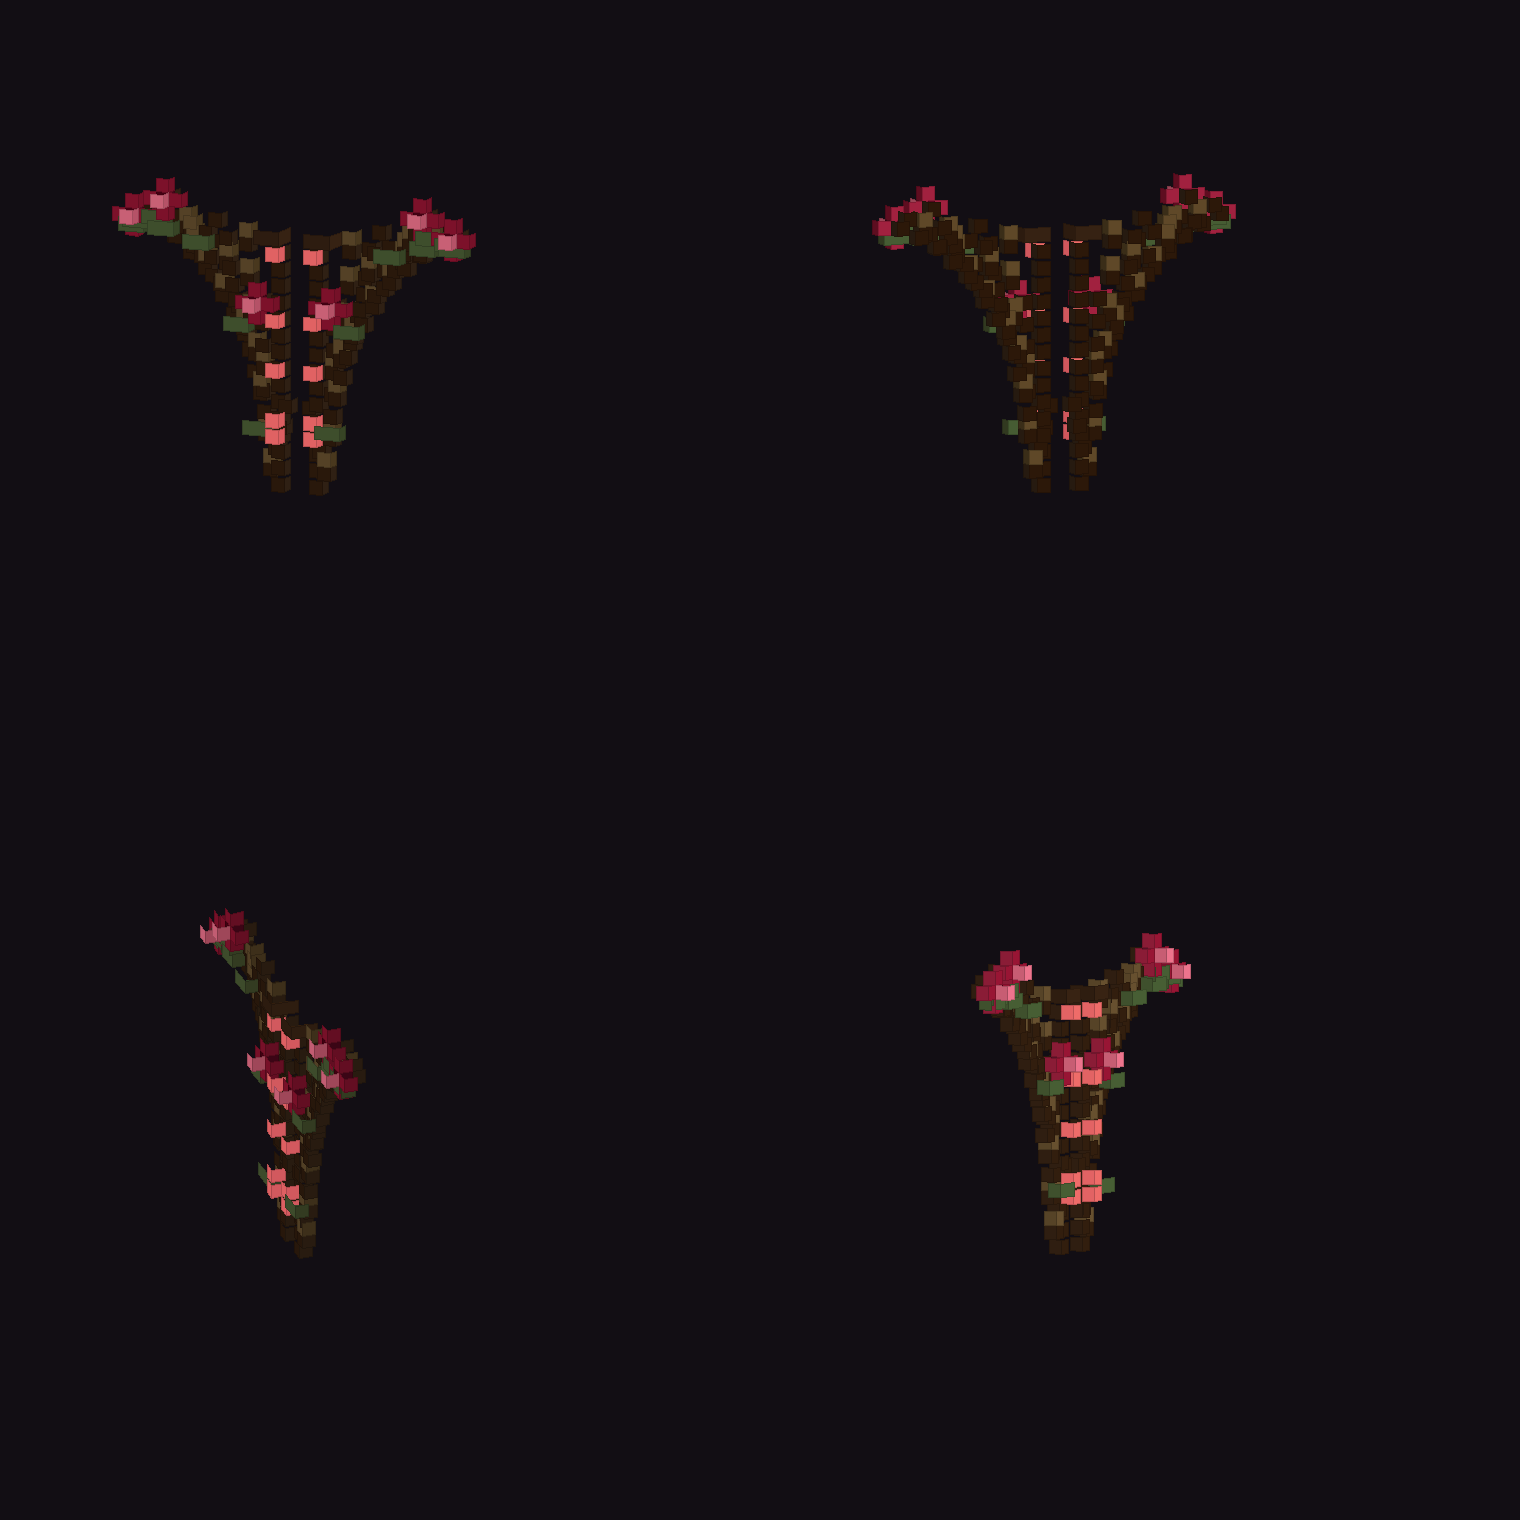
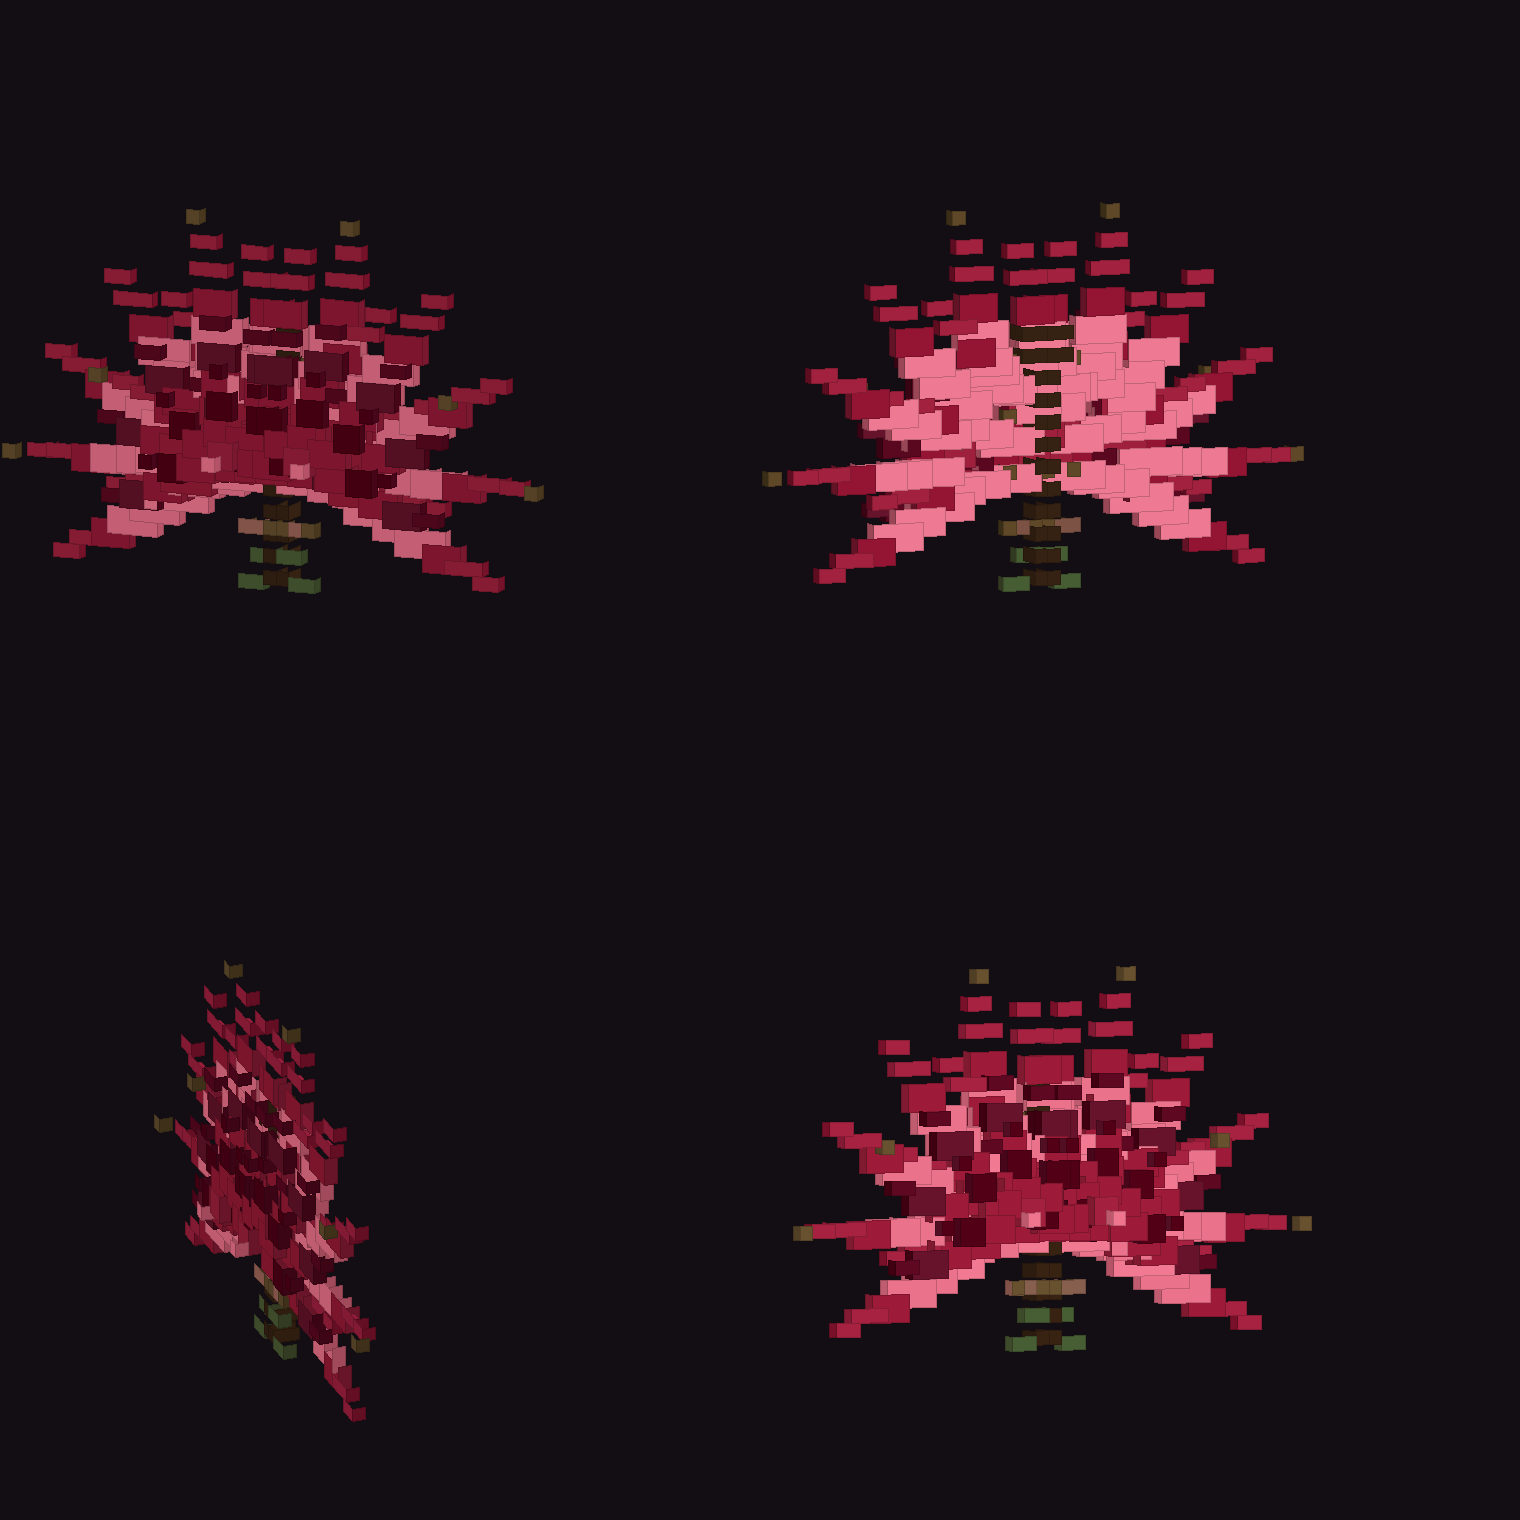
feat(wings): rose bloom wings (three petal rings, thorny stem, leaves)

diff --git a/src/main/java/sg/ec/RoseWingModel.java b/src/main/java/sg/ec/RoseWingModel.java
@@ -7,9 +7,9 @@ import sg.render.WingAnimator;
 import sg.render.WingModelPart;
 
 /**
- * Крылья «Роза»: колючая ветвь вдоль лопатки, от неё веером расходятся семь побегов
- * с шипами, листьями и маленькими розами на концах. Восемь палитровых блоков
- * текстуры задают материалы (дерево, шипы, листва, лепестки).
+ * Крылья «Роза»: каждое крыло — раскрывшийся бутон. Три кольца лепестков
+ * (внешние светлые, внутренние тёмные), в центре сердцевина, сзади колючий
+ * стебель с шипами и листьями. Материалы задаются восемью блоками текстуры.
  */
 public final class RoseWingModel extends WingModel {
    private final WingModelPart root = createPart(0, 0);
@@ -68,123 +68,137 @@ public final class RoseWingModel extends WingModel {
       WingModelPart roseHiPart = sign > 0 ? this.leftRoseHiPart : this.rightRoseHiPart;
 
       // wood
-      box(woodPart, 1, -14, 0, 2, 1, 2, sign);
-      box(woodPart, 1, -13, 0, 1, 1, 1, sign);
-      box(woodPart, 1, -12, 0, 1, 1, 1, sign);
-      box(woodPart, 1, -10, 0, 1, 1, 1, sign);
-      box(woodPart, 1, -9, 0, 1, 1, 1, sign);
-      box(woodPart, 1, -8, 0, 1, 1, 1, sign);
-      box(woodPart, 1, -7, 0, 1, 1, 1, sign);
-      box(woodPart, 1, -6, 0, 1, 1, 1, sign);
-      box(woodPart, 1, -4, 0, 1, 1, 1, sign);
-      box(woodPart, 1, -3, 0, 1, 1, 1, sign);
-      box(woodPart, 1, -2, 0, 1, 1, 1, sign);
-      box(woodPart, 1, -1, 0, 1, 1, 1, sign);
-      box(woodPart, 1, 0, 0, 1, 1, 1, sign);
-      box(woodPart, 1, 2, 0, 1, 1, 1, sign);
-      box(woodPart, 1, 3, 0, 1, 1, 1, sign);
-      box(woodPart, 1, 4, 0, 1, 1, 1, sign);
-      box(woodPart, 4, -13, 0, 1, 1, 1, sign);
-      box(woodPart, 5, -14, 0, 1, 1, 1, sign);
-      box(woodPart, 7, -14, 0, 1, 1, 1, sign);
-      box(woodPart, 8, -14, 0, 1, 1, 1, sign);
-      box(woodPart, 10, -14, 0, 1, 1, 1, sign);
-      box(woodPart, 3, -11, 0, 1, 1, 1, sign);
-      box(woodPart, 5, -11, 0, 1, 1, 1, sign);
-      box(woodPart, 6, -12, 0, 1, 1, 1, sign);
-      box(woodPart, 8, -13, 0, 1, 1, 1, sign);
-      box(woodPart, 9, -14, 0, 1, 1, 1, sign);
-      box(woodPart, 11, -14, 0, 1, 1, 1, sign);
-      box(woodPart, 12, -15, 0, 1, 1, 1, sign);
-      box(woodPart, 3, -8, 0, 1, 1, 1, sign);
-      box(woodPart, 4, -9, 0, 1, 1, 1, sign);
-      box(woodPart, 6, -10, 0, 1, 1, 1, sign);
-      box(woodPart, 7, -11, 0, 1, 1, 1, sign);
-      box(woodPart, 8, -12, 0, 1, 1, 1, sign);
-      box(woodPart, 9, -13, 0, 1, 1, 1, sign);
-      box(woodPart, 10, -14, 0, 1, 1, 1, sign);
-      box(woodPart, 12, -16, 0, 1, 1, 1, sign);
-      box(woodPart, 3, -5, 0, 1, 1, 1, sign);
-      box(woodPart, 4, -7, 0, 1, 1, 1, sign);
-      box(woodPart, 5, -8, 0, 1, 1, 1, sign);
-      box(woodPart, 5, -9, 0, 1, 1, 1, sign);
-      box(woodPart, 6, -11, 0, 1, 1, 1, sign);
-      box(woodPart, 7, -12, 0, 1, 1, 1, sign);
-      box(woodPart, 8, -13, 0, 1, 1, 1, sign);
-      box(woodPart, 9, -15, 0, 1, 1, 1, sign);
-      box(woodPart, 10, -16, 0, 1, 1, 1, sign);
-      box(woodPart, 2, -3, 0, 1, 1, 1, sign);
-      box(woodPart, 3, -4, 0, 1, 1, 1, sign);
-      box(woodPart, 3, -6, 0, 1, 1, 1, sign);
-      box(woodPart, 4, -7, 0, 1, 1, 1, sign);
-      box(woodPart, 4, -9, 0, 1, 1, 1, sign);
-      box(woodPart, 5, -10, 0, 1, 1, 1, sign);
-      box(woodPart, 5, -12, 0, 1, 1, 1, sign);
-      box(woodPart, 6, -13, 0, 1, 1, 1, sign);
-      box(woodPart, 6, -15, 0, 1, 1, 1, sign);
-      box(woodPart, 2, 0, 0, 1, 1, 1, sign);
-      box(woodPart, 2, -1, 0, 1, 1, 1, sign);
-      box(woodPart, 2, -3, 0, 1, 1, 1, sign);
-      box(woodPart, 2, -4, 0, 1, 1, 1, sign);
-      box(woodPart, 2, -6, 0, 1, 1, 1, sign);
-      box(woodPart, 2, -8, 0, 1, 1, 1, sign);
-      box(woodPart, 2, -9, 0, 1, 1, 1, sign);
-      box(woodPart, 2, 3, 0, 1, 1, 1, sign);
-      box(woodPart, 1, 1, 0, 1, 1, 1, sign);
-      box(woodPart, 1, 0, 0, 1, 1, 1, sign);
-      box(woodPart, 0, -2, 0, 1, 1, 1, sign);
-      // wood_light
-      box(woodLightPart, 1, -13, 1, 1, 1, 1, sign);
-      box(woodLightPart, 1, -8, 1, 1, 1, 1, sign);
-      box(woodLightPart, 1, -4, 1, 1, 1, 1, sign);
-      box(woodLightPart, 1, -1, 1, 1, 1, 1, sign);
-      box(woodLightPart, 1, 0, 1, 1, 1, 1, sign);
+      box(woodPart, 0, -12, -1, 2, 1, 2, sign);
+      box(woodPart, 0, -10, -1, 2, 1, 2, sign);
+      box(woodPart, 0, -9, -1, 1, 1, 2, sign);
+      box(woodPart, 0, -7, -1, 1, 1, 2, sign);
+      box(woodPart, 0, -6, -1, 1, 1, 2, sign);
+      box(woodPart, 0, -4, -1, 1, 1, 2, sign);
+      box(woodPart, 0, -2, -1, 1, 1, 2, sign);
+      box(woodPart, 0, -1, -1, 1, 1, 2, sign);
+      box(woodPart, 0, 1, -1, 1, 1, 2, sign);
+      box(woodPart, 0, 2, -1, 1, 1, 2, sign);
+      box(woodPart, 0, 4, -1, 1, 1, 2, sign);
+      box(woodPart, 0, 6, -1, 1, 1, 2, sign);
       // thorn
-      box(thornPart, 4, -14, 0, 1, 1, 1, sign);
-      box(thornPart, 8, -15, 0, 1, 1, 1, sign);
-      box(thornPart, 3, -12, 0, 1, 1, 1, sign);
-      box(thornPart, 8, -14, 0, 1, 1, 1, sign);
-      box(thornPart, 3, -9, 0, 1, 1, 1, sign);
-      box(thornPart, 7, -12, 0, 1, 1, 1, sign);
-      box(thornPart, 10, -15, 0, 1, 1, 1, sign);
-      box(thornPart, 3, -6, 0, 1, 1, 1, sign);
-      box(thornPart, 5, -10, 0, 1, 1, 1, sign);
-      box(thornPart, 8, -14, 0, 1, 1, 1, sign);
-      box(thornPart, 2, -4, 0, 1, 1, 1, sign);
-      box(thornPart, 4, -8, 0, 1, 1, 1, sign);
-      box(thornPart, 5, -13, 0, 1, 1, 1, sign);
-      box(thornPart, 2, -1, 0, 1, 1, 1, sign);
-      box(thornPart, 2, -5, 0, 1, 1, 1, sign);
+      box(thornPart, -14, -8, 1, 1, 1, 1, sign);
+      box(thornPart, 6, -20, 1, 1, 1, 1, sign);
+      box(thornPart, 20, -2, 1, 1, 1, 1, sign);
+      box(thornPart, -1, -10, 0, 1, 1, 1, sign);
+      box(thornPart, 2, -10, 0, 1, 1, 1, sign);
+      box(thornPart, -1, -6, 0, 1, 1, 1, sign);
+      box(thornPart, 2, -6, 0, 1, 1, 1, sign);
+      box(thornPart, -1, -2, 0, 1, 1, 1, sign);
+      box(thornPart, 2, -2, 0, 1, 1, 1, sign);
+      box(thornPart, -1, 2, 0, 1, 1, 1, sign);
       box(thornPart, 2, 2, 0, 1, 1, 1, sign);
       // leaf
-      box(leafPart, 9, -14, 1, 2, 1, 1, sign);
-      box(leafPart, 12, -14, 1, 2, 1, 1, sign);
-      box(leafPart, 11, -14, 1, 2, 1, 1, sign);
-      box(leafPart, 10, -15, 1, 2, 1, 1, sign);
-      box(leafPart, 7, -13, 1, 2, 1, 1, sign);
-      box(leafPart, 3, -8, 1, 2, 1, 1, sign);
-      box(leafPart, 2, 0, 1, 2, 1, 1, sign);
+      box(leafPart, -2, 4, 0, 2, 1, 1, sign);
+      box(leafPart, 1, 6, 0, 2, 1, 1, sign);
+      // leaf_dark
+      box(leafDarkPart, -3, 2, 0, 2, 1, 1, sign);
       // rose_core
-      box(roseCorePart, 12, -15, 1, 1, 1, 1, sign);
-      box(roseCorePart, 10, -16, 1, 1, 1, 1, sign);
-      box(roseCorePart, 2, -9, 1, 1, 1, 1, sign);
+      box(roseCorePart, -6, -3, 1, 3, 2, 1, sign);
+      box(roseCorePart, -8, -3, 1, 2, 1, 1, sign);
+      box(roseCorePart, -5, -7, 1, 3, 2, 1, sign);
+      box(roseCorePart, -6, -8, 1, 2, 1, 1, sign);
+      box(roseCorePart, -2, -10, 1, 3, 2, 1, sign);
+      box(roseCorePart, -2, -12, 1, 2, 1, 1, sign);
+      box(roseCorePart, 3, -11, 1, 3, 2, 1, sign);
+      box(roseCorePart, 4, -13, 1, 2, 1, 1, sign);
+      box(roseCorePart, 7, -9, 1, 3, 2, 1, sign);
+      box(roseCorePart, 9, -10, 1, 2, 1, 1, sign);
+      box(roseCorePart, 9, -5, 1, 3, 2, 1, sign);
+      box(roseCorePart, 12, -5, 1, 2, 1, 1, sign);
+      box(roseCorePart, 9, 0, 1, 3, 2, 1, sign);
+      box(roseCorePart, 11, 0, 1, 2, 1, 1, sign);
+      box(roseCorePart, -2, -4, 2, 2, 2, 1, sign);
+      box(roseCorePart, -4, -4, 2, 1, 1, 1, sign);
+      box(roseCorePart, -1, -7, 2, 2, 2, 1, sign);
+      box(roseCorePart, -1, -8, 2, 1, 1, 1, sign);
+      box(roseCorePart, 3, -7, 2, 2, 2, 1, sign);
+      box(roseCorePart, 3, -9, 2, 1, 1, 1, sign);
+      box(roseCorePart, 5, -6, 2, 2, 2, 1, sign);
+      box(roseCorePart, 8, -7, 2, 1, 1, 1, sign);
+      box(roseCorePart, 6, -3, 2, 2, 2, 1, sign);
+      box(roseCorePart, 9, -2, 2, 1, 1, 1, sign);
       // rose_petal
-      box(rosePetalPart, 11, -15, 1, 1, 1, 1, sign);
-      box(rosePetalPart, 13, -15, 1, 1, 1, 1, sign);
-      box(rosePetalPart, 12, -16, 1, 1, 1, 1, sign);
-      box(rosePetalPart, 12, -14, 1, 1, 1, 1, sign);
-      box(rosePetalPart, 9, -16, 1, 1, 1, 1, sign);
-      box(rosePetalPart, 11, -16, 1, 1, 1, 1, sign);
-      box(rosePetalPart, 10, -17, 1, 1, 1, 1, sign);
-      box(rosePetalPart, 10, -15, 1, 1, 1, 1, sign);
-      box(rosePetalPart, 1, -9, 1, 1, 1, 1, sign);
-      box(rosePetalPart, 3, -9, 1, 1, 1, 1, sign);
-      box(rosePetalPart, 2, -10, 1, 1, 1, 1, sign);
-      box(rosePetalPart, 2, -8, 1, 1, 1, 1, sign);
+      box(rosePetalPart, -10, -1, 0, 3, 2, 1, sign);
+      box(rosePetalPart, -12, -1, 0, 3, 1, 1, sign);
+      box(rosePetalPart, -13, 0, 0, 2, 1, 1, sign);
+      box(rosePetalPart, -10, -6, 0, 3, 2, 1, sign);
+      box(rosePetalPart, -11, -7, 0, 3, 1, 1, sign);
+      box(rosePetalPart, -13, -8, 0, 2, 1, 1, sign);
+      box(rosePetalPart, -7, -11, 0, 3, 2, 1, sign);
+      box(rosePetalPart, -8, -13, 0, 3, 1, 1, sign);
+      box(rosePetalPart, -9, -14, 0, 2, 1, 1, sign);
+      box(rosePetalPart, -2, -14, 0, 3, 2, 1, sign);
+      box(rosePetalPart, -3, -16, 0, 3, 1, 1, sign);
+      box(rosePetalPart, -3, -18, 0, 2, 1, 1, sign);
+      box(rosePetalPart, 4, -14, 0, 3, 2, 1, sign);
+      box(rosePetalPart, 4, -16, 0, 3, 1, 1, sign);
+      box(rosePetalPart, 5, -18, 0, 2, 1, 1, sign);
+      box(rosePetalPart, 9, -12, 0, 3, 2, 1, sign);
+      box(rosePetalPart, 10, -14, 0, 3, 1, 1, sign);
+      box(rosePetalPart, 11, -15, 0, 2, 1, 1, sign);
+      box(rosePetalPart, 12, -8, 0, 3, 2, 1, sign);
+      box(rosePetalPart, 14, -9, 0, 3, 1, 1, sign);
+      box(rosePetalPart, 16, -10, 0, 2, 1, 1, sign);
+      box(rosePetalPart, 13, -2, 0, 3, 2, 1, sign);
+      box(rosePetalPart, 15, -2, 0, 3, 1, 1, sign);
+      box(rosePetalPart, 18, -2, 0, 2, 1, 1, sign);
+      box(rosePetalPart, 12, 3, 0, 3, 2, 1, sign);
+      box(rosePetalPart, 13, 4, 0, 3, 1, 1, sign);
+      box(rosePetalPart, 16, 5, 0, 2, 1, 1, sign);
+      box(rosePetalPart, -3, -3, 1, 4, 2, 1, sign);
+      box(rosePetalPart, -4, -3, 1, 3, 2, 1, sign);
+      box(rosePetalPart, -2, -5, 1, 4, 2, 1, sign);
+      box(rosePetalPart, -3, -6, 1, 3, 2, 1, sign);
+      box(rosePetalPart, -1, -6, 1, 4, 2, 1, sign);
+      box(rosePetalPart, -1, -8, 1, 3, 2, 1, sign);
+      box(rosePetalPart, 2, -7, 1, 4, 2, 1, sign);
+      box(rosePetalPart, 2, -9, 1, 3, 2, 1, sign);
+      box(rosePetalPart, 4, -6, 1, 4, 2, 1, sign);
+      box(rosePetalPart, 5, -7, 1, 3, 2, 1, sign);
+      box(rosePetalPart, 5, -4, 1, 4, 2, 1, sign);
+      box(rosePetalPart, 7, -4, 1, 3, 2, 1, sign);
+      box(rosePetalPart, 5, -2, 1, 4, 2, 1, sign);
+      box(rosePetalPart, 7, -1, 1, 3, 2, 1, sign);
+      box(rosePetalPart, -1, -3, 2, 3, 2, 1, sign);
+      box(rosePetalPart, 0, -5, 2, 3, 2, 1, sign);
+      box(rosePetalPart, 2, -5, 2, 3, 2, 1, sign);
+      box(rosePetalPart, 3, -5, 2, 3, 2, 1, sign);
+      box(rosePetalPart, 4, -3, 2, 3, 2, 1, sign);
+      box(rosePetalPart, 2, -4, 3, 2, 2, 1, sign);
       // rose_hi
-      box(roseHiPart, 12, -15, 2, 1, 1, 1, sign);
-      box(roseHiPart, 10, -16, 2, 1, 1, 1, sign);
-      box(roseHiPart, 2, -9, 2, 1, 1, 1, sign);
+      box(roseHiPart, -5, -2, 0, 5, 2, 1, sign);
+      box(roseHiPart, -6, -2, 0, 4, 2, 1, sign);
+      box(roseHiPart, -8, -1, 0, 4, 2, 1, sign);
+      box(roseHiPart, -5, -5, 0, 5, 2, 1, sign);
+      box(roseHiPart, -6, -5, 0, 4, 2, 1, sign);
+      box(roseHiPart, -8, -6, 0, 4, 2, 1, sign);
+      box(roseHiPart, -3, -7, 0, 5, 2, 1, sign);
+      box(roseHiPart, -4, -8, 0, 4, 2, 1, sign);
+      box(roseHiPart, -6, -10, 0, 4, 2, 1, sign);
+      box(roseHiPart, -1, -8, 0, 5, 2, 1, sign);
+      box(roseHiPart, -1, -10, 0, 4, 2, 1, sign);
+      box(roseHiPart, -2, -12, 0, 4, 2, 1, sign);
+      box(roseHiPart, 1, -9, 0, 5, 2, 1, sign);
+      box(roseHiPart, 2, -10, 0, 4, 2, 1, sign);
+      box(roseHiPart, 3, -12, 0, 4, 2, 1, sign);
+      box(roseHiPart, 4, -7, 0, 5, 2, 1, sign);
+      box(roseHiPart, 6, -9, 0, 4, 2, 1, sign);
+      box(roseHiPart, 7, -11, 0, 4, 2, 1, sign);
+      box(roseHiPart, 6, -5, 0, 5, 2, 1, sign);
+      box(roseHiPart, 8, -6, 0, 4, 2, 1, sign);
+      box(roseHiPart, 10, -7, 0, 4, 2, 1, sign);
+      box(roseHiPart, 6, -3, 0, 5, 2, 1, sign);
+      box(roseHiPart, 9, -3, 0, 4, 2, 1, sign);
+      box(roseHiPart, 11, -3, 0, 4, 2, 1, sign);
+      box(roseHiPart, 5, 0, 0, 5, 2, 1, sign);
+      box(roseHiPart, 8, 1, 0, 4, 2, 1, sign);
+      box(roseHiPart, 9, 2, 0, 4, 2, 1, sign);
+      box(roseHiPart, 3, -3, 4, 1, 1, 1, sign);
    }
 
    private static void box(WingModelPart part, int x, int y, int z, int width, int height, int depth, int sign) {
